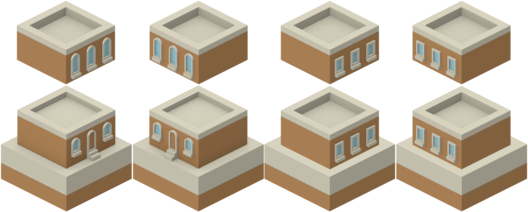
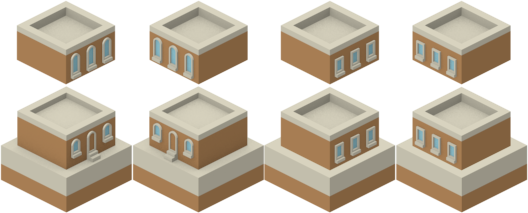
Commercial and industrial can have several stairs too

diff --git a/src/city/Building.cpp b/src/city/Building.cpp
@@ -31,7 +31,7 @@ std::unique_ptr<Tile> Building::clone() const
 
 bool Building::updateVariant(Tile* neighbors[3][3])
 {
-    sf::IntRect rect(0, 85, 132, 127);
+    sf::IntRect rect(0, 85, 132, 128);
 
     if (neighbors[0][1]->getType() == Type::ROAD)
         rect.left = 264;

diff --git a/src/city/Building.h b/src/city/Building.h
@@ -7,7 +7,7 @@ class Building : public Tile
 {
 public:
     static constexpr int STAIR_HEIGHT = 33;
-    static constexpr int OFFSET_Y = 26;
+    static constexpr int OFFSET_Y = 27;
 
     Building(const sf::Texture& texture, Type type);
     virtual ~Building();
